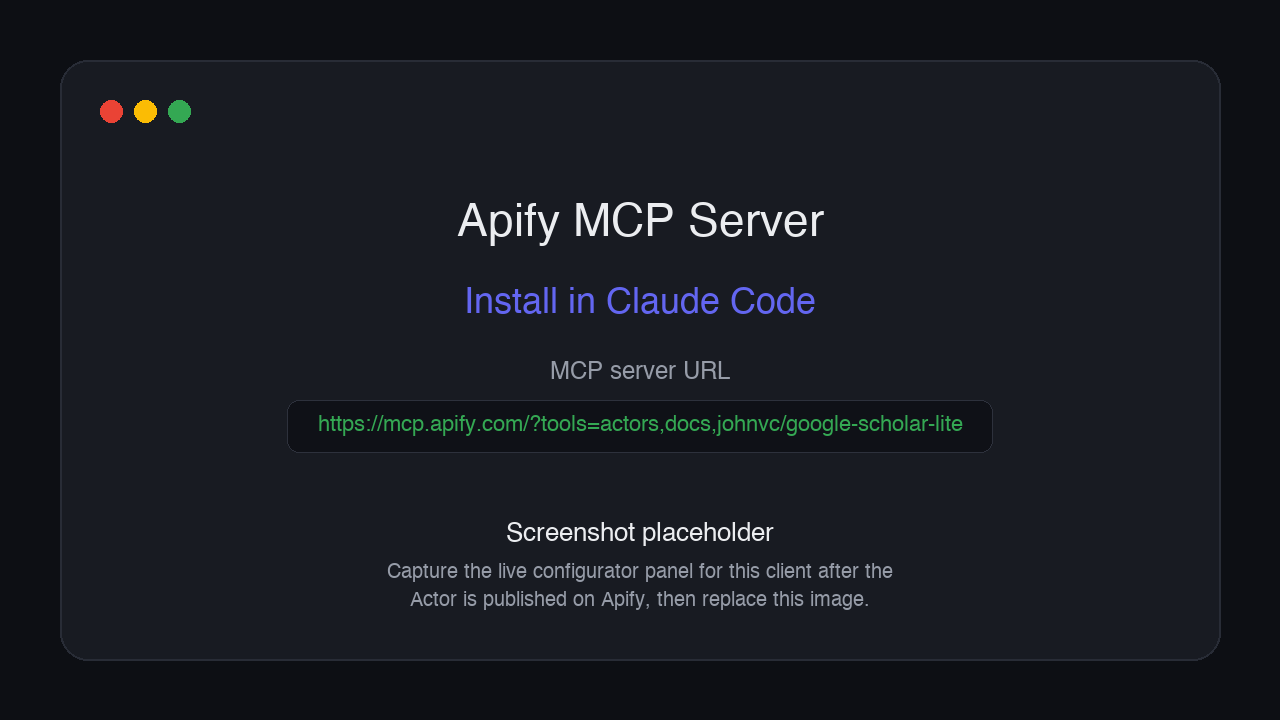
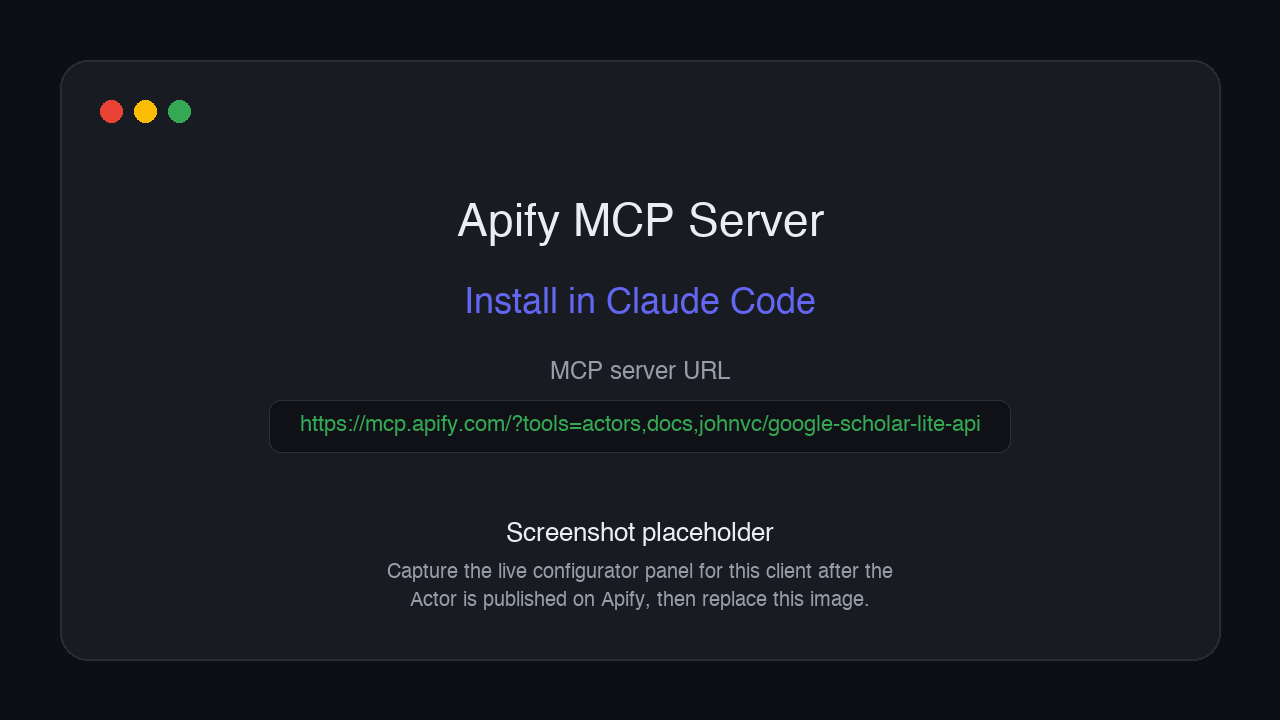
Align slug to google-scholar-lite-api (MCP URLs, store links, client.actor call, screenshots)

Changed region(s): [[0.2188, 0.5806, 0.7812, 0.6111]]

diff --git a/google-scholar-lite-api-example.py b/google-scholar-lite-api-example.py
@@ -1,7 +1,7 @@
 """
 Google Scholar Lite API: A Quick Start Example
-See more at: https://apify.com/johnvc/google-scholar-lite?fpr=9n7kx3
-Input schema: https://apify.com/johnvc/google-scholar-lite/input-schema?fpr=9n7kx3
+See more at: https://apify.com/johnvc/google-scholar-lite-api?fpr=9n7kx3
+Input schema: https://apify.com/johnvc/google-scholar-lite-api/input-schema?fpr=9n7kx3
 
 This script shows how to call the Google Scholar Lite API on Apify from Python and
 read its structured JSON output. It searches Google Scholar for academic papers and
@@ -35,7 +35,7 @@ run_input = {
 }
 
 # Run the Actor and wait for it to finish
-run = client.actor("johnvc/google-scholar-lite").call(run_input=run_input)
+run = client.actor("johnvc/google-scholar-lite-api").call(run_input=run_input)
 
 # Read structured results from the run's default dataset.
 # apify-client 3.x returns a typed Run object, so use the attribute (not run["..."]).

diff --git a/README.md b/README.md
@@ -2,8 +2,8 @@
 
 > The most efficient, reliable, and developer-friendly way to use the Google Scholar Lite API.
 
-**Actor page:** [apify.com/johnvc/google-scholar-lite](https://apify.com/johnvc/google-scholar-lite?fpr=9n7kx3)
-**Input schema:** [apify.com/johnvc/google-scholar-lite/input-schema](https://apify.com/johnvc/google-scholar-lite/input-schema?fpr=9n7kx3)
+**Actor page:** [apify.com/johnvc/google-scholar-lite-api](https://apify.com/johnvc/google-scholar-lite-api?fpr=9n7kx3)
+**Input schema:** [apify.com/johnvc/google-scholar-lite-api/input-schema](https://apify.com/johnvc/google-scholar-lite-api/input-schema?fpr=9n7kx3)
 
 Search Google Scholar in bulk and get clean, structured JSON for every academic paper: title, the authors and journal line, publication year, citation count, a result snippet, and links to the paper plus its PDF or HTML full text when available. Pass many search queries at once, filter by year range, and pay only for the papers you receive (from $1.50 per 1,000, no setup or per-run fee). It is built for literature reviews, citation discovery, and research datasets.
 
@@ -136,7 +136,7 @@ Papers that expose a PDF include a `pdfUrl` field pointing at the full text.
 You can also load this API as a tool in your AI assistant through the Apify MCP server. The server URL preloads just this one Actor:
 
 ```
-https://mcp.apify.com/?tools=actors,docs,johnvc/google-scholar-lite
+https://mcp.apify.com/?tools=actors,docs,johnvc/google-scholar-lite-api
 ```
 
 The `actors` and `docs` tools let the assistant discover and read Apify docs, while preloading just this one Actor keeps the tool list small. Auth is either OAuth in the browser when offered, or your Apify API token (the same `APIFY_API_TOKEN` secret used by the Python example). Get a token at https://console.apify.com/settings/integrations and a free Apify account at https://apify.com?fpr=9n7kx3 .
@@ -162,7 +162,7 @@ Cowork is the desktop app's automation mode. To give it the Google Scholar Lite 
       "args": [
         "-y",
         "mcp-remote",
-        "https://mcp.apify.com/?tools=actors,docs,johnvc/google-scholar-lite"
+        "https://mcp.apify.com/?tools=actors,docs,johnvc/google-scholar-lite-api"
       ]
     }
   }
@@ -183,14 +183,14 @@ Claude Code is the command-line tool. Add the Actor's MCP server with one comman
 
 ```bash
 claude mcp add --transport http apify \
-  "https://mcp.apify.com/?tools=actors,docs,johnvc/google-scholar-lite"
+  "https://mcp.apify.com/?tools=actors,docs,johnvc/google-scholar-lite-api"
 ```
 
 To use a token instead of browser OAuth:
 
 ```bash
 claude mcp add --transport http apify \
-  "https://mcp.apify.com/?tools=actors,docs,johnvc/google-scholar-lite" \
+  "https://mcp.apify.com/?tools=actors,docs,johnvc/google-scholar-lite-api" \
   --header "Authorization: Bearer YOUR_APIFY_TOKEN"
 ```
 
@@ -206,9 +206,9 @@ Claude Code MCP docs: https://code.claude.com/docs/en/mcp
 On claude.ai you add Apify as a connector, then enable just this Actor's tool.
 
 1. Go to **Settings → Connectors → Browse connectors** and search for **Apify MCP server**. Install it (enable or update if prompted).
-2. When connecting, authenticate with your Apify API token, and enable the tool `johnvc/google-scholar-lite`.
+2. When connecting, authenticate with your Apify API token, and enable the tool `johnvc/google-scholar-lite-api`.
 3. In any chat, open **+ → Connectors** and turn on **Apify**.
-4. Alternatively, choose **Add custom connector** and paste the full MCP URL `https://mcp.apify.com/?tools=actors,docs,johnvc/google-scholar-lite`, using OAuth when prompted.
+4. Alternatively, choose **Add custom connector** and paste the full MCP URL `https://mcp.apify.com/?tools=actors,docs,johnvc/google-scholar-lite-api`, using OAuth when prompted.
 5. Ask Claude to run the Google Scholar Lite API.
 
 Open Claude on the web: https://claude.ai
@@ -225,7 +225,7 @@ Cursor reads MCP servers from a project file at `.cursor/mcp.json`.
 {
   "mcpServers": {
     "apify": {
-      "url": "https://mcp.apify.com/?tools=actors,docs,johnvc/google-scholar-lite"
+      "url": "https://mcp.apify.com/?tools=actors,docs,johnvc/google-scholar-lite-api"
     }
   }
 }
@@ -237,7 +237,7 @@ Cursor reads MCP servers from a project file at `.cursor/mcp.json`.
 {
   "mcpServers": {
     "apify": {
-      "url": "https://mcp.apify.com/?tools=actors,docs,johnvc/google-scholar-lite",
+      "url": "https://mcp.apify.com/?tools=actors,docs,johnvc/google-scholar-lite-api",
       "headers": { "Authorization": "Bearer YOUR_APIFY_TOKEN" }
     }
   }
